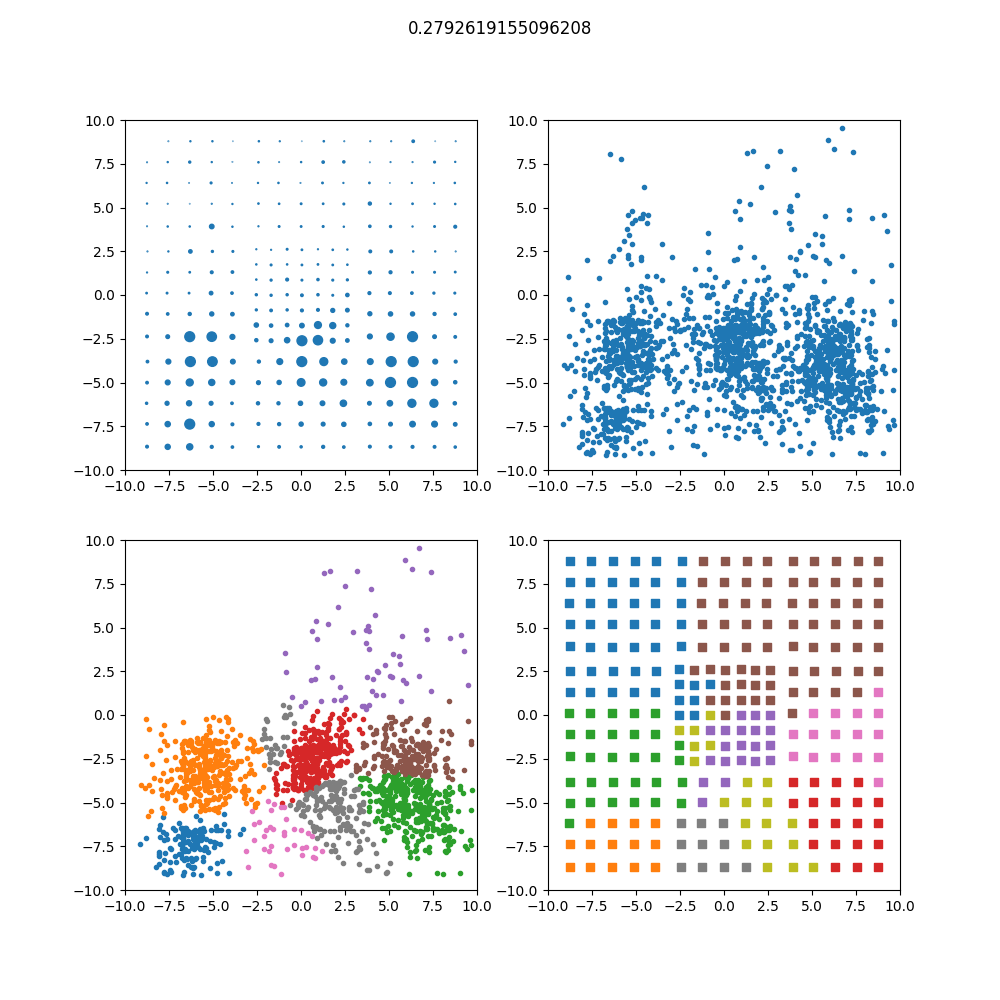
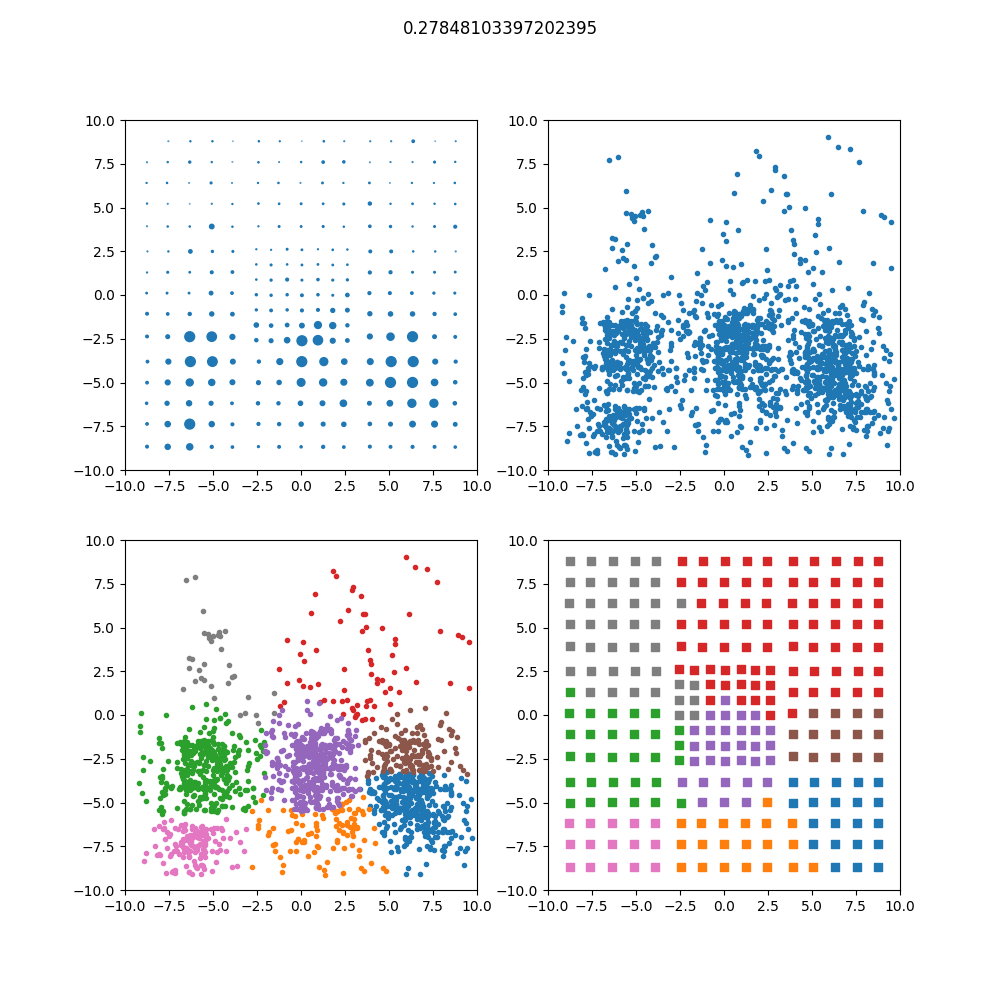
Started on 'handler' class

diff --git a/optimize.py b/optimize.py
@@ -68,7 +68,6 @@ def run(data, method, its):
 def save_study(study, data, its, method, model=None):
     bundle = dict()
     bundle["method"] = method
-    #bundle["model"] = model
     bundle["study"] = study
     bundle["data"] = data
     bundle["its"] = its
@@ -87,8 +86,8 @@ def save_study(study, data, its, method, model=None):
     if model != None:
         print("Saving model")
         # Save model in case of CNN
+        bundle["model_file"] = filename_model
         torch.save(model, dir+filename_model)
-
 
 
 def handle_method(data: Any, method: str, its: int):
@@ -379,6 +378,8 @@ def unpack_parameters(par_keys, trial, config):
             par_keys[par['name']] = trial.suggest_int(par['name'], int(par['min']), int(par['max']))
         elif par["type"] == "bool":
             par_keys[par['name']] = trial.suggest_categorical(par['name'], [True, False])
+        elif par["type"] == "string":
+            par_keys[par['name']] = trial.suggest_categorical(par['name'], par['list'])
 
 
 
@@ -437,14 +438,14 @@ def sklearn_optimize(data, method, its):
             for i in range(len(X)):
                 model.fit(X[i])
                 Y[i] = model.labels_.astype(int)
+                Y[i] += Y[i]+1 # Not clustered is 0 in my clustering methods
                 cl[i] = dataloader.kdtree_map(X[i], np.column_stack([x[i], y[i]]), Y[i])
-                cl[i] += 1 # Not clustered is 0 in my clustering methods
         else:
             for i in range(len(X)):
                 model.fit(X[i])
                 Y[i] = model.predict(X[i])
+                Y[i] += Y[i]+1 # Not clustered is 0 in my clustering methods
                 cl[i] = dataloader.kdtree_map(X[i], np.column_stack([x[i], y[i]]), Y[i])
-                cl[i] += 1 # Not clustered is 0 in my clustering methods
 
         score = np.zeros(N)
         for i in range(N):
@@ -465,6 +466,7 @@ def sklearn_optimize(data, method, its):
         ax[0][0].scatter(x[test_idx], y[test_idx], s=50*z[test_idx]/z[test_idx].max())
         ax[0][1].scatter(X[test_idx][:,0], X[test_idx][:,1], marker=".")
 
+        print(len([Y[test_idx]]))
         for l in set(Y[test_idx]):
             if l == 0:
                 continue
@@ -502,9 +504,7 @@ def transformation(x, y, z, trans):
             pass
         case _:
             raise ValueError(f"Unknown transformation: {trans}")
-
     return x,y,z
-
 
 
 def main():

diff --git a/lib/ModifiedAggregationClusterer.py b/lib/ModifiedAggregationClusterer.py
@@ -1,0 +1,33 @@
+"""
+Class that acts as the handler for Modified Aggregation.
+Initialize an instance, either from parameters or hyperparameter optimization object.
+Prepare data, and cluster. This will replace in part code in optimize.py
+"""
+
+from lib.modified_aggregation import ModifiedAggregation
+import Optuna
+
+
+
+class ModifiedAggregationClusterer:
+    def __init__(self):
+        pass
+
+    @classmethod
+    def from_study(cls, study):
+        """
+        Read Optuna study object and use parameters
+        """
+        pass
+
+
+    def data(self):
+        """
+        Prepare data by reading the generic root files, read
+        adjacency matrix and inverse index transform.
+        Returning adj matrix and numpy array?
+        Many tfiles? Using yaml file?
+        """
+        pass
+
+

diff --git a/lib/modified_aggregation.py b/lib/modified_aggregation.py
@@ -17,6 +17,9 @@ class ModifiedAggregation:
     def run(self, A, v):
         """
         Main loop that iteratively finds new clusters and calls spreading functions.
+        It finds starting candidates based on seed threshold, and for each starting
+        point it spreads until I can't anymore. Then updates starting candidates
+        (in case some have been absorbed) and finds the next (if exists).
         """
 
         labels = np.zeros_like(v, dtype=np.int32)
